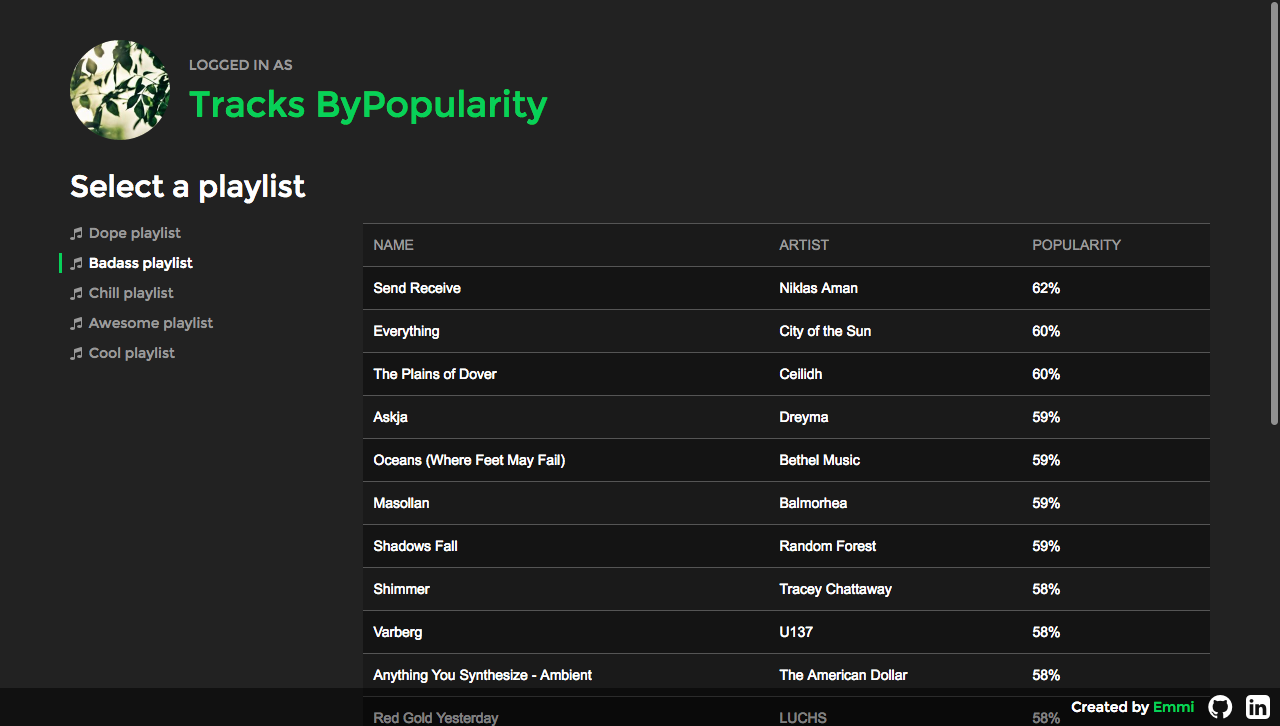
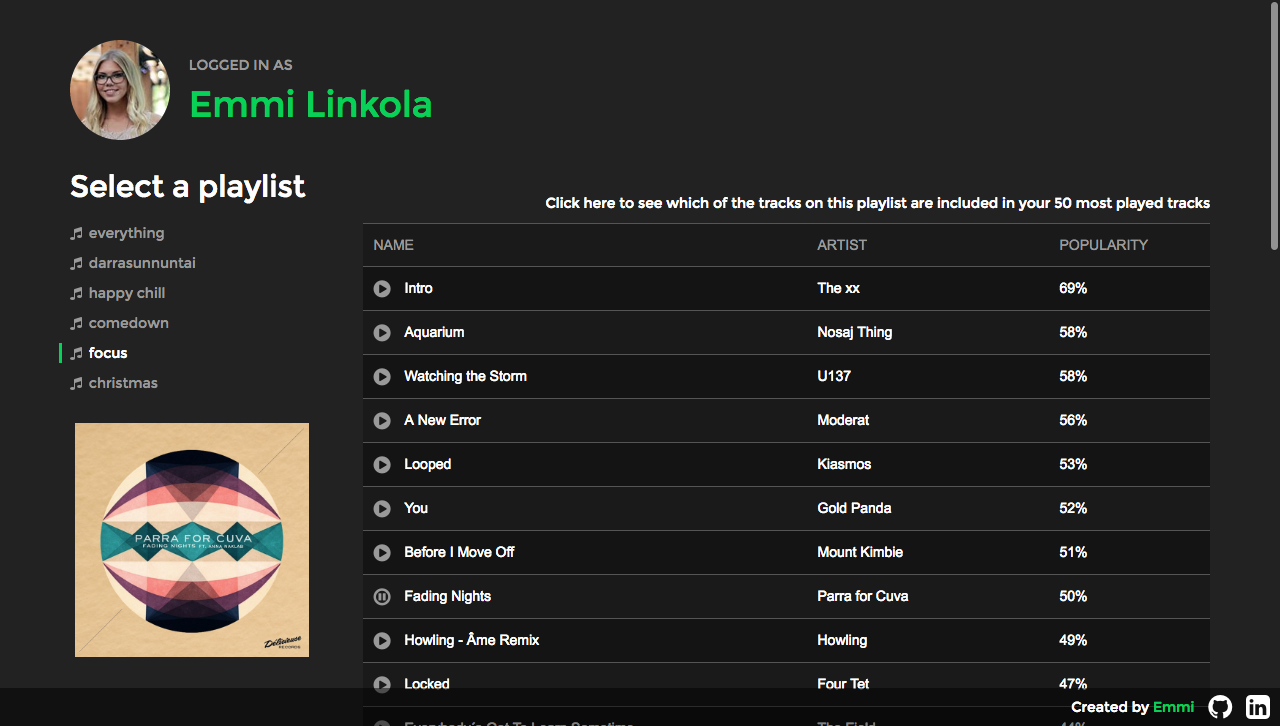
Landing redesign, project text update

diff --git a/index.html b/index.html
@@ -96,10 +96,10 @@
           <h3 class="section-heading">PROJECTS</h3>
           <div class="row">
             <div class="col-md-6">
-              <h4 class="project-title">An application for sorting your favourite tracks on Spotify by popularity</h4>
+              <h4 class="project-title"><a href="http://tracksbypopularity.herokuapp.com/">An application for sorting your favourite tracks on Spotify by popularity</a></h4>
               <div class="row">
                 <div class="col-xs-12">
-                  <p>Spotify has an algorithm for calculating the popularity of tracks, but its UI does not show the popularity of single tracks anywhere as the algorithm is only used on artist pages. So I made a <a href="http://tracksbypopularity.herokuapp.com/">web app</a>, using AngularJS and the Spotify API, that lets a Spotify user log in and see the tracks on their playlists sorted by popularity. You can try it out with your Spotify account or a dummy account I made (user: emmi.linkola@aalto.fi, passw: trackstest). See the code on <a href="https://github.com/emms/Spotify-tracksbypopularity">GitHub</a>.</p>
+                  <p>Spotify has an algorithm for calculating the popularity of tracks, but its UI does not show the popularity of single tracks anywhere as the algorithm is only used on artist pages. So I made a <a href="http://tracksbypopularity.herokuapp.com/">web app</a>, using AngularJS and the Spotify API, that lets a Spotify user log in and see the tracks on their playlists sorted by popularity. They can also play tracks and see which tracks on each playlist are included in the 50 tracks that the user has listened to most. You can try it out with your Spotify account or a dummy account I made (user: emmi.linkola@aalto.fi, passw: trackstest). See the code on <a href="https://github.com/emms/Spotify-tracksbypopularity">GitHub</a>.</p>
                 </div>
               </div>
               <div class="row">
@@ -117,7 +117,7 @@
               </div>
             </div>
             <div class="col-md-6">
-              <h4 class="project-title">Visualisation of people killed by the police in the US</h4>
+              <h4 class="project-title"><a href="http://emms.github.io/policekillings/index.html">Visualisation of people killed by the police in the US</a></h4>
               <div class="row">
                 <div class="col-xs-12">
                   <p>I made a <a href="http://emms.github.io/policekillings/index.html">visualisation</a> of people killed by the police in the US utilising D3.js and TopoJSON and a data set provided by <a href="http://fatalencounters.org">Fatal Encounters</a>. The interactive visualisation can be explored through selecting different variables, such as age or race, to visualise by and hovering over individual counties to see data specific to them. The code can be found on my <a href="https://github.com/emms/Police-killings">GitHub</a>.<br/><br/></p>
@@ -143,7 +143,7 @@
               <h4 class="project-title">Discussion platform for decisions made by the city of Helsinki</h4>
               <div class="row">
                 <div class="col-xs-12">
-                  <p><a href="https://somekratia.vihtori.me">Somekratia</a> is a platform for discussing public decisions made by the city of Helsinki. It is built as a single-page application with AngularJS and uses the Open Ahjo API provided by the city of Helsinki. This was a group project in which I worked on the frontend coding and design. The site is only in Finnish as the data is not available in English. See the code <a href="https://github.com/emms/somekratia">here</a>.</p>
+                  <p>Somekratia is a platform for discussing public decisions made by the city of Helsinki. It is built as a single-page application with AngularJS and uses the Open Ahjo API provided by the city of Helsinki. This was a group project in which I worked on the frontend coding and UI/UX design. The site is currently offline. See the code <a href="https://github.com/emms/somekratia">here</a>.<br/><br/></p>
                 </div>
               </div>
               <div class="row">
@@ -161,11 +161,11 @@
               </div>
             </div>
             <div class="col-md-6">
-              <h4 class="project-title hidden-xs hidden-sm">Website for Junction Hackathon<br/><br/></h4>
-              <h4 class="project-title visible-xs visible-sm">Website for Junction Hackathon</h4>
+              <h4 class="project-title hidden-xs hidden-sm"><a href="http://hackjunction.com">Website for Junction Hackathon</a></a><br/><br/></h4>
+              <h4 class="project-title visible-xs visible-sm"><a href="http://hackjunction.com">Website for Junction Hackathon</a></h4>
               <div class="row">
                 <div class="col-xs-12">
-                  <p>I was part of the team making the website for Junction, a student-led hackathon that brings together coders, designers, and entrepreneurs from all around the world to hack on the latest tech and APIs. The website has been a group effort, where my effort was mainly spent on the initial implementation and making the first base for the site. Visit the site <a href="http://hackjunction.com">here</a>.</p>
+                  <p>I was part of the team making the website for Junction, one of Europe's largest hackathons. This student-led event brings together coders, designers, and entrepreneurs from all around the world to hack on the latest tech and APIs. The website has been a group effort, where my effort was mainly spent on the initial implementation and making the first base for the site. Visit the site <a href="http://hackjunction.com">here</a>.</p>
                 </div>
               </div>
               <div class="row">

diff --git a/css/main4.css b/css/main4.css
@@ -24,8 +24,8 @@ body {
 }
 
 h1 {
-  font-size: 75pt;
-  font-family: 'OratorStd';
+  font-size: 40pt;
+  font-family: 'Orator Std';
 }
 
 p {
@@ -102,10 +102,10 @@ h4 {
 }
 
 .heading {
-  font-size: 50pt;
+  font-size: 15pt;
   color: #000;
   font-family: 'Orator Std';
-  margin: 20vh 0 0 15vw;
+  margin: 5vw;
 }
 
 .subheading {
@@ -115,7 +115,7 @@ h4 {
   width: 100vw;
   text-align: center;
   position: absolute;
-  bottom: 35vh;
+  bottom: 30vh;
   left: 0;
   margin-bottom: -10px;
 }
@@ -180,7 +180,8 @@ h4 {
     font-size: 50pt;
   }
   .heading {
-    margin: 25vh 0 0 10vw;
+    margin: 55vh 0 0 10vw;
+    color: #fff;
   }
 }
 
@@ -209,4 +210,13 @@ h4 {
   top: 50%;
   transform: translate(-50%, -50%);
   height: 95%;
+}
+
+.project-title a, .project-title a:visited {
+  color: #555;
+  text-decoration: none;
+}
+
+.project-title a:hover {
+  color: #999;
 }

diff --git a/js/script.js b/js/script.js
@@ -1,4 +1,4 @@
-$.backstretch("img/v2/bg_1.jpg", { centeredY: false });
+$.backstretch("img/v2/bg_2.jpg", { centeredY: false });
 
 $(document).ready(function() {
 

diff --git a/css/nav.css b/css/nav.css
@@ -3,7 +3,7 @@
     width: 100vw;
     position: absolute;
     left: 0;
-    top: 65vh;
+    top: 70vh;
     border-radius: 0;
     padding: 10px;
 }
